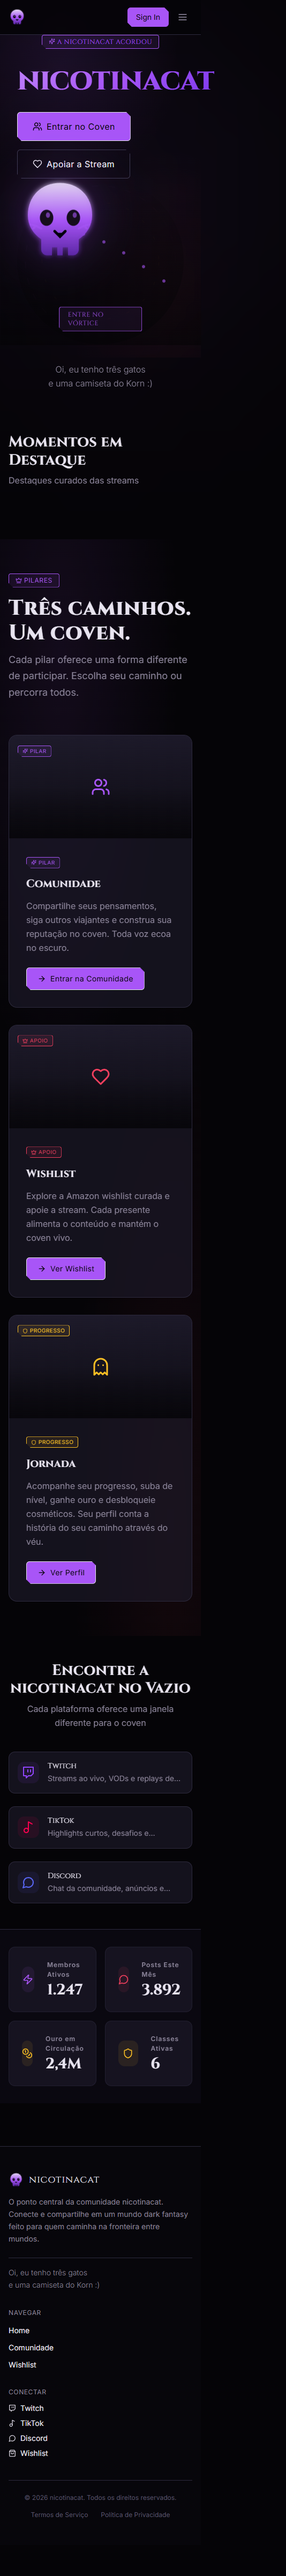
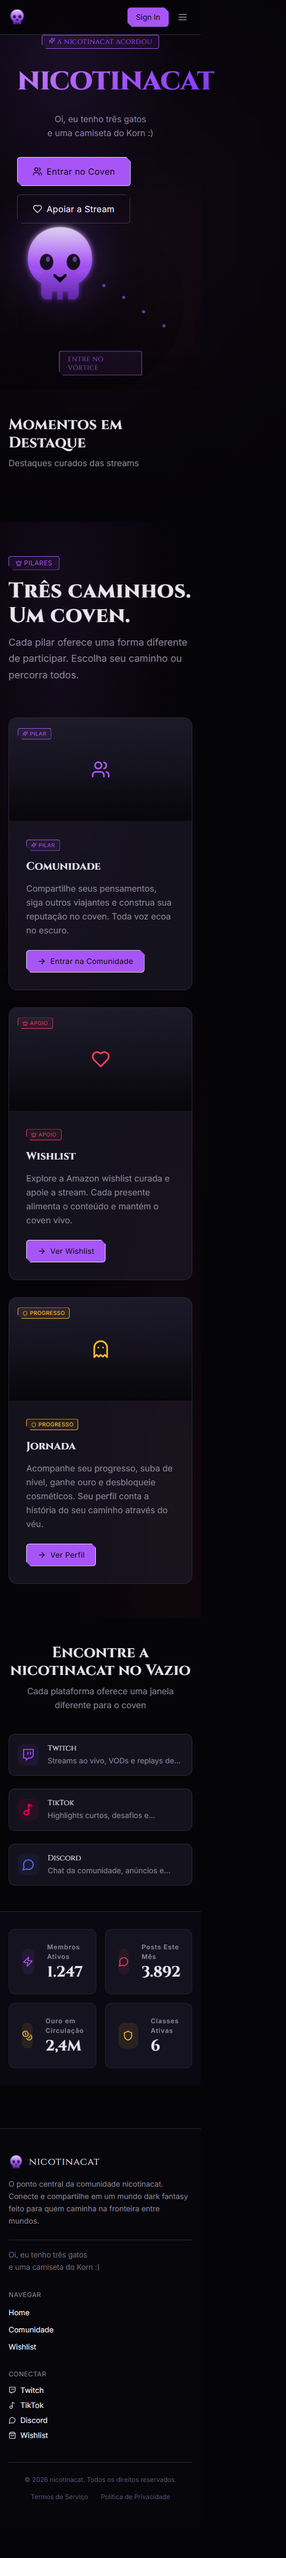
fix: place brand signature in home hero
## Change

Moved brand signature from separate section into Hero, replacing the old descriptive paragraph.

**Before**: Hero had headline + descriptive paragraph ("Um refúgio dark fantasy...") + CTAs

**After**: Hero has headline + brand signature + CTAs

## Brand Signature (exact copy)

Oi, eu tenho três gatos
e uma camiseta do Korn :)

## Implementation

- Removed separate "Brand Signature" Section after Hero
- Added signature text in Hero, after h1, before CTAs
- Typography: `text-body-md text-text-muted leading-relaxed max-w-xl mb-8 animate-reveal-up`
- Two lines with `<br />` separator
- Animation delay matches Hero content stagger (250ms/450ms)

## Verification

- No duplicate signature (removed separate section)
- Hero visually balanced
- No overflow at any viewport
- All animations preserved

## Validation

- typecheck: PASS
- lint: PASS (4 pre-existing react-refresh warnings)
- build: PASS (409 kB JS / 116 kB gzipped)
- Playwright: Home, Videos, Community, Profile, Wishlist, Auth, Terms, Privacy — desktop/tablet/mobile ✅
- Console: 0 errors

diff --git a/src/pages/Home.tsx b/src/pages/Home.tsx
@@ -46,6 +46,11 @@ export function Home() {
                 <span className="gradient-text">nicotinacat</span>
               </h1>
 
+              <p className="text-body-md text-text-muted leading-relaxed max-w-xl mb-8 animate-reveal-up" style={{ animationDelay: isPageVisible ? '250ms' : '450ms' }}>
+                Oi, eu tenho três gatos<br />
+                e uma camiseta do Korn :)
+              </p>
+
               <Cluster gap="md" justify="start" className="animate-reveal-up" style={{ animationDelay: isPageVisible ? '350ms' : '550ms' }}>
                 <Link to="/community">
                   <Button variant="primary" size="lg" icon={<Users size={18} />}>
@@ -115,18 +120,6 @@ export function Home() {
           </div>
         </Container>
       </HeroSection>
-
-      {/* Brand Signature */}
-      <Section size="tight" background="none" className="px-4">
-        <Container size="lg">
-          <div className="text-center animate-fade-in-up">
-            <p className="text-body-md text-text-muted leading-relaxed max-w-xl mx-auto font-light">
-              Oi, eu tenho três gatos<br />
-              e uma camiseta do Korn :)
-            </p>
-          </div>
-        </Container>
-      </Section>
 
       {/* Featured Content — Editorial layout */}
       <Section size="normal" background="none">
